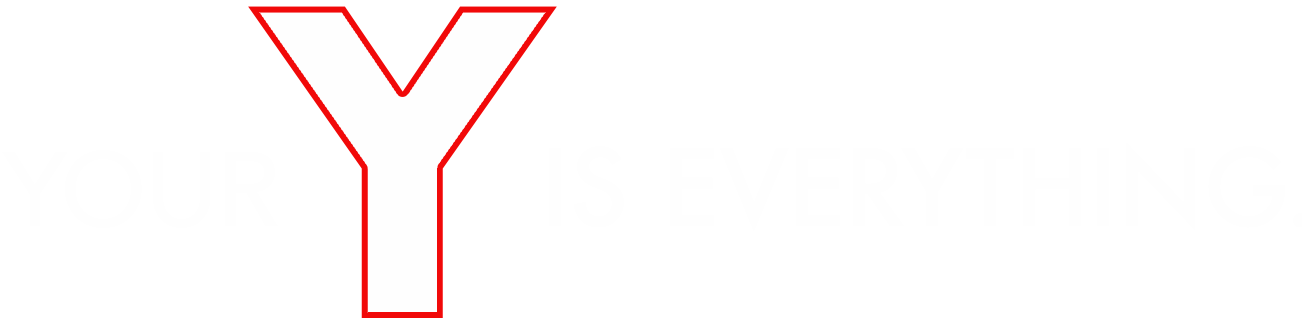
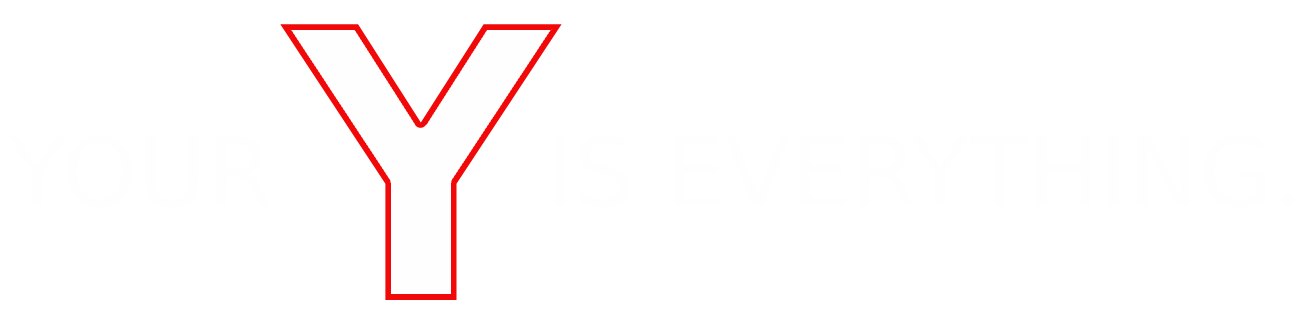
update hero image and mobile responsivness for landing page

Changed region(s): [[0.1843, 0.0, 0.4301, 0.9877]]

diff --git a/assets/custom-landing-page.css b/assets/custom-landing-page.css
@@ -268,12 +268,11 @@
   display: flex;
   flex-direction: column;
   align-items: center;
-  gap: 4px;
 }
 
 .scroll-label {
   font-family: 'DIN Condensed', 'Arial Narrow', sans-serif;
-  font-size: 0.9rem;
+  font-size: 1.3rem;
   font-weight: bold;
   color: #ffffff;
   text-transform: uppercase;
@@ -326,7 +325,7 @@
 .features-section {
   background: linear-gradient(135deg, #0f0f23, #1a1a2e, #16213e);
   color: white;
-  padding: 100px 0;
+  padding: 100px 0 50px 0;
   position: relative;
 }
 
@@ -678,18 +677,17 @@ footer.section-wrapper .section {
   left: 50%;
   transform: translateX(-50%);
   border-radius: 50%;
-  width: 100px;
-  height: 100px;
+  width: 110px;
+  height: 110px;
   display: flex;
   align-items: center;
   justify-content: center;
-  background-size: 100px 100px;
+  background-size: 110px 110px;
   background-position: center;
   background-repeat: no-repeat;
 }
 
 .testimonial-text {
-  /* color: #112ac0; */
   color: #333;
   font-weight: 300;
   font-size: 0.95rem;
@@ -697,7 +695,7 @@ footer.section-wrapper .section {
   text-align: left;
   margin: 20px 0;
   flex-grow: 1;
-  /* font-style: italic; */
+  font-weight: bold;
 }
 
 .testimonial-author {
@@ -768,7 +766,6 @@ footer.section-wrapper .section {
   left: 0;
   right: 0;
   bottom: 0;
-  /* background: linear-gradient(135deg, rgba(17, 42, 192, 0.85), rgba(32, 108, 213, 0.75)); */
   z-index: 1;
 }
 
@@ -779,35 +776,17 @@ footer.section-wrapper .section {
   left: 0;
   right: 0;
   bottom: 0;
-  /* background: 
-    radial-gradient(circle at 20% 30%, rgba(255, 107, 53, 0.15) 0%, transparent 50%),
-    radial-gradient(circle at 80% 70%, rgba(220, 32, 13, 0.15) 0%, transparent 50%); */
   z-index: 2;
 }
 
-.video-section-title {
-  font-family: 'DIN Condensed', 'Arial Narrow', sans-serif;
-  color: #FF6B35;
-  font-size: 4rem;
-  font-weight: bold;
-  text-transform: uppercase;
-  text-align: center;
-  margin-bottom: 40px;
-  text-shadow: 3px 3px 8px rgba(0,0,0,0.7);
+.video-title-image {
+  max-width: 700px;
+  width: 100%;
+  height: auto;
+  display: block;
+  margin: 0 auto 40px auto;
   position: relative;
   z-index: 3;
-}
-
-.video-section-title::after {
-  content: '';
-  position: absolute;
-  bottom: -15px;
-  left: 50%;
-  transform: translateX(-50%);
-  width: 100px;
-  height: 4px;
-  background: linear-gradient(90deg, #FF6B35, #dc200d);
-  border-radius: 2px;
 }
 
 .video-container {
@@ -861,6 +840,17 @@ footer.section-wrapper .section {
   .features-heading {
     font-size: 2rem;
   }
+
+  .features-tagline {
+    font-size: 2rem;
+    align-items: center;
+    justify-content: start;
+    text-align: left;
+  }
+
+  .video-container {
+    padding-bottom: 56.25%;
+  }
 }
 
 /* Mobile */
@@ -871,6 +861,10 @@ footer.section-wrapper .section {
   
   .hero-highlight {
     font-size: 4rem;
+  }
+
+  .hero-bottle-overlay img {
+    height: 70vh;
   }
   
   .features-layout {
@@ -903,10 +897,6 @@ footer.section-wrapper .section {
     font-size: 1rem;
   }
   
-  .features-tagline {
-    font-size: 1.2rem;
-  }
-  
   .column--left,
   .column--right {
     min-width: auto;
@@ -914,7 +904,7 @@ footer.section-wrapper .section {
 
   /* Video Section Mobile */
   .video-section {
-    padding: 60px 15px;
+    padding: 60px 30px;
   }
   
   .video-container {
@@ -943,9 +933,9 @@ footer.section-wrapper .section {
   }
 
   .rooster-icon {
-    width: 70px;
-    height: 70px;
-    top: -35px;
+    width: 100px;
+    height: 100px;
+    top: -50px;
   }
 
   .testimonial-text {
@@ -989,6 +979,10 @@ footer.section-wrapper .section {
   
   .hero-highlight {
     font-size: 4rem;
+  }
+
+  .hero-bottle-overlay img {
+    height: 56vh;
   }
 
   .features-section {
@@ -1042,7 +1036,7 @@ footer.section-wrapper .section {
 
   .features-tagline {
     margin-top: 15px;
-    font-size: 1.6rem;
+    font-size: 1.5rem;
   }
 
   /* Testimonials Small Mobile */
@@ -1102,7 +1096,7 @@ footer.section-wrapper .section {
   .banner-next, .banner-prev {
     width: 40px !important;
     height: 40px !important;
-    top: 10px !important;
+    top: 50px !important;
     z-index: 1000 !important;
   }
 
@@ -1207,6 +1201,23 @@ footer.section-wrapper .section {
   flex-wrap: wrap;
 }
 
+/* Responsive for trust badges */
+@media (max-width: 1145px) {
+  .trust-badges {
+    flex-direction: column;
+    gap: 20px;
+  }
+  
+  .label-separator {
+    order: -1;
+  }
+  
+  .trust-badge {
+    width: 100%;
+    max-width: 280px;
+  }
+}
+
 .trust-badge {
   background: rgba(255, 255, 255, 0.1);
   border: 2px solid rgba(255, 107, 53, 0.3);
@@ -1214,13 +1225,20 @@ footer.section-wrapper .section {
   padding: 15px 20px;
   text-align: center;
   backdrop-filter: blur(10px);
-  transition: all 0.3s ease;
 }
 
-.trust-badge:hover {
-  border-color: #ff6e04;
-  transform: translateY(-5px);
-  box-shadow: 0 10px 25px rgba(255, 107, 53, 0.2);
+.label-separator {
+  display: flex;
+  align-items: center;
+  justify-content: center;
+  padding: 20px;
+}
+
+.label-image {
+  max-width: 220px;
+  height: auto;
+  border-radius: 10px;
+  box-shadow: 0 8px 25px rgba(0, 0, 0, 0.3);
 }
 
 .trust-badge-title {
